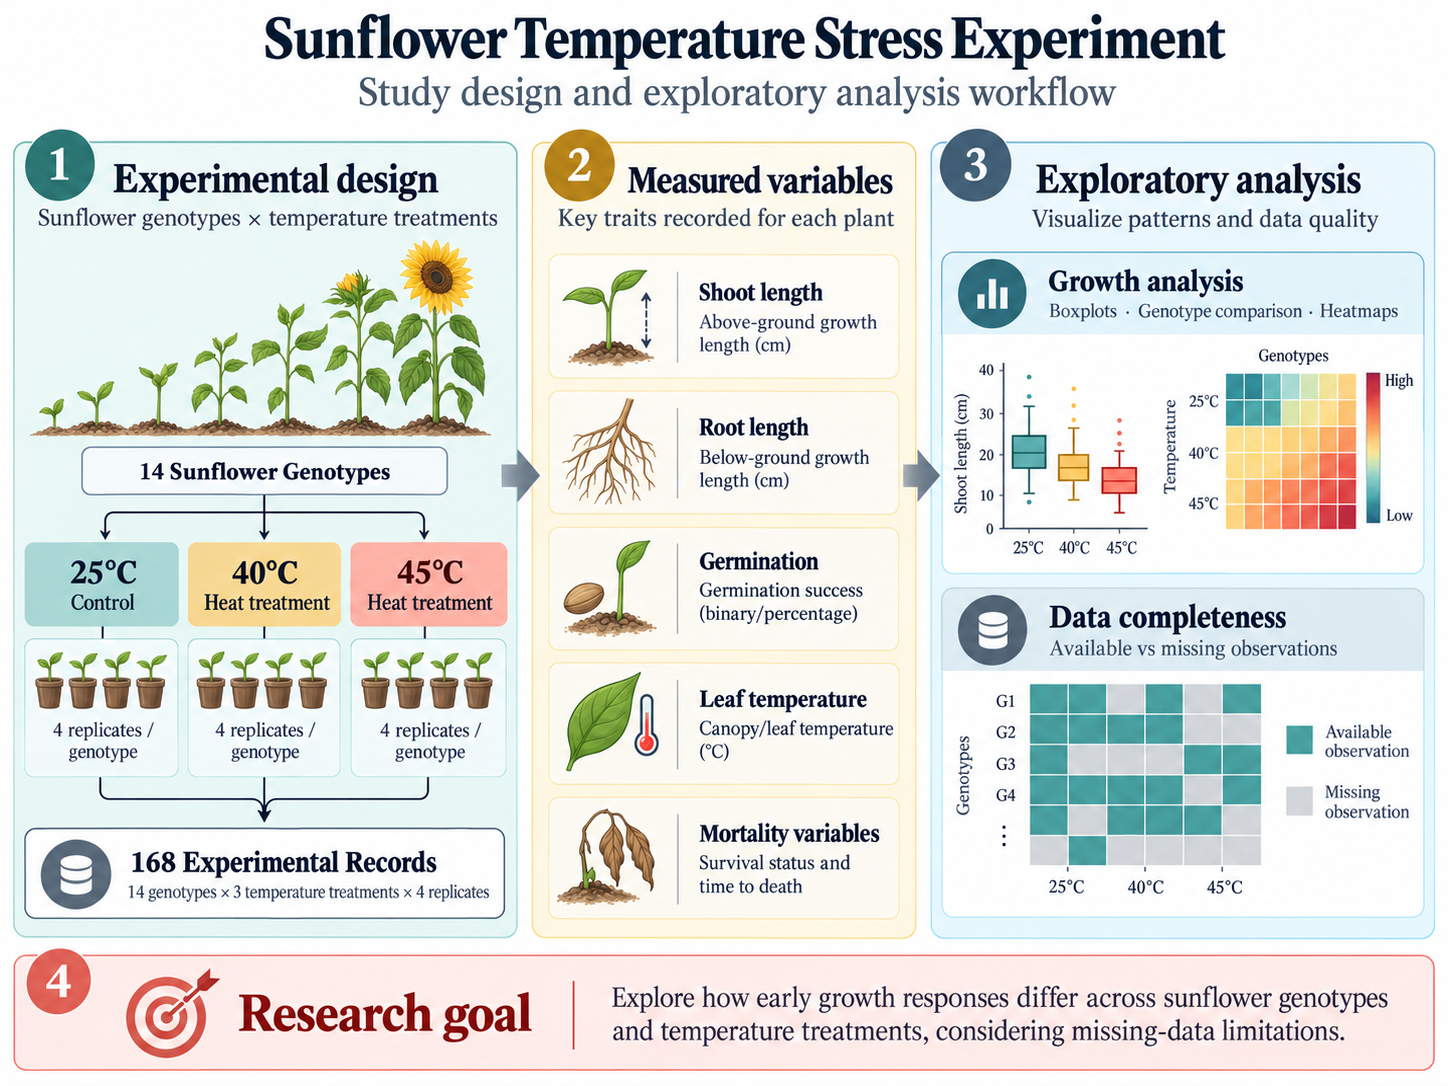
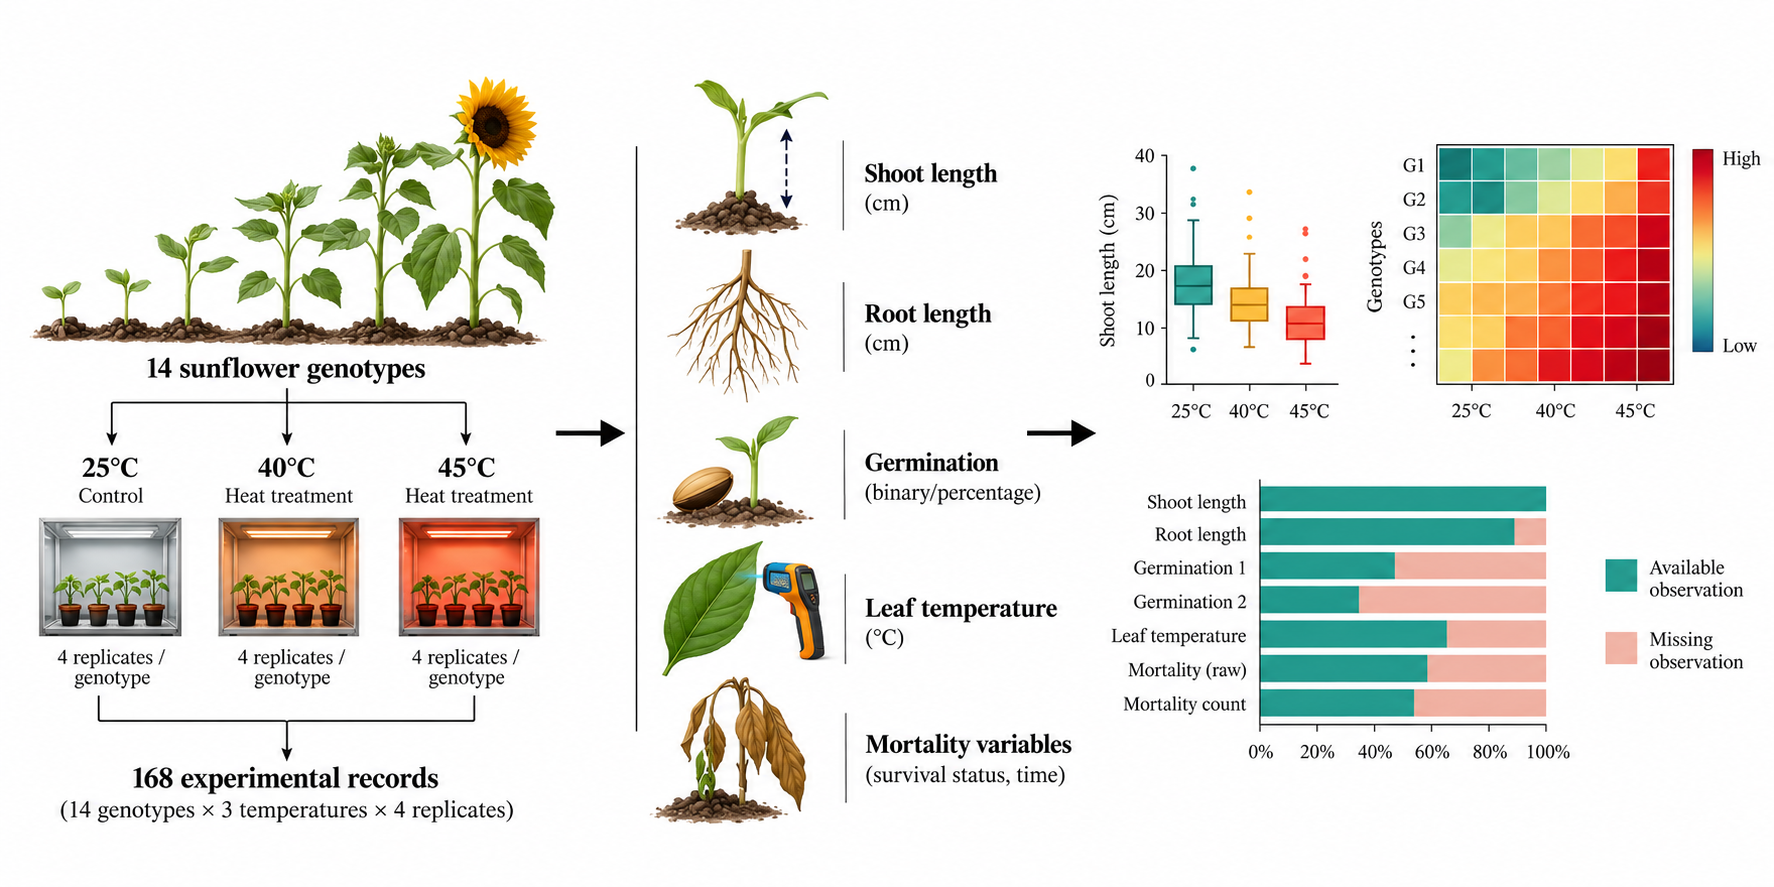
changed img

diff --git a/README.md b/README.md
@@ -1,6 +1,6 @@
 # **Sunflower Growth Responses to Temperature Stress**
 
-![Sunflower experimental design and analysis workflow](figures/00_study_design_workflow.png)
+![Sunflower experimental design and analysis workflow](figures/00_study_design_workflow.png){width="410"}
 
 ## Project Overview
 
@@ -42,7 +42,7 @@ Measurements are not available for every variable under every temperature treatm
 
 The observed mean shoot lengths were 0.95 cm at 25°C, 1.69 cm at 40°C, and 2.43 cm at 45°C. However, the number of available observations decreased from 56 at 25°C to only 15 at 45°C.
 
-![](figures/01_shoot_length_temperature.png){width="446"}
+![](figures/01_shoot_length_temperature.png){width="309"}
 
 Consequently, higher observed means at 45°C should not be interpreted as evidence of superior overall growth or heat tolerance.
 
@@ -50,7 +50,7 @@ Consequently, higher observed means at 45°C should not be interpreted as eviden
 
 The observed mean root lengths were 2.32 cm at 25°C, 2.09 cm at 40°C, and 2.85 cm at 45°C.
 
-![](figures/02_root_length_temperature.png){width="435"}
+![](figures/02_root_length_temperature.png){width="309"}
 
 Differences in sample availability and variability require caution when comparing temperature treatments.
 
@@ -58,7 +58,7 @@ Differences in sample availability and variability require caution when comparin
 
 This figure displays individual shoot and root length observations for the 14 sunflower genotypes. Diamond markers represent observed group means.
 
-![](figures/03_genotype_growth_variation.png){width="526"}
+![](figures/03_genotype_growth_variation.png){width="421"}
 
 The visualization highlights variation among genotypes and across temperature treatments.
 
@@ -66,7 +66,7 @@ The visualization highlights variation among genotypes and across temperature tr
 
 The heatmaps summarize mean shoot and root length for each genotype–temperature combination.
 
-![](figures/04_genotype_temperature_heatmap.png){width="506"}
+![](figures/04_genotype_temperature_heatmap.png){width="382"}
 
 Grey cells indicate combinations without available measurements. These patterns highlight the importance of sample availability when interpreting genotype responses.
 
@@ -74,7 +74,7 @@ Grey cells indicate combinations without available measurements. These patterns 
 
 Data completeness varies considerably across temperature treatments.
 
-![](figures/05_data_completeness_temperature.png)
+![](figures/05_data_completeness_temperature.png){width="419"}
 
 Shoot and root length observations are complete at 25°C, nearly complete at 40°C, and available for only approximately 27% of records at 45°C. Germination measurements are available at 25°C but missing at 40°C and 45°C. Mortality-related measurements show a different availability pattern. These differences limit direct comparisons across variables and treatments.
 
